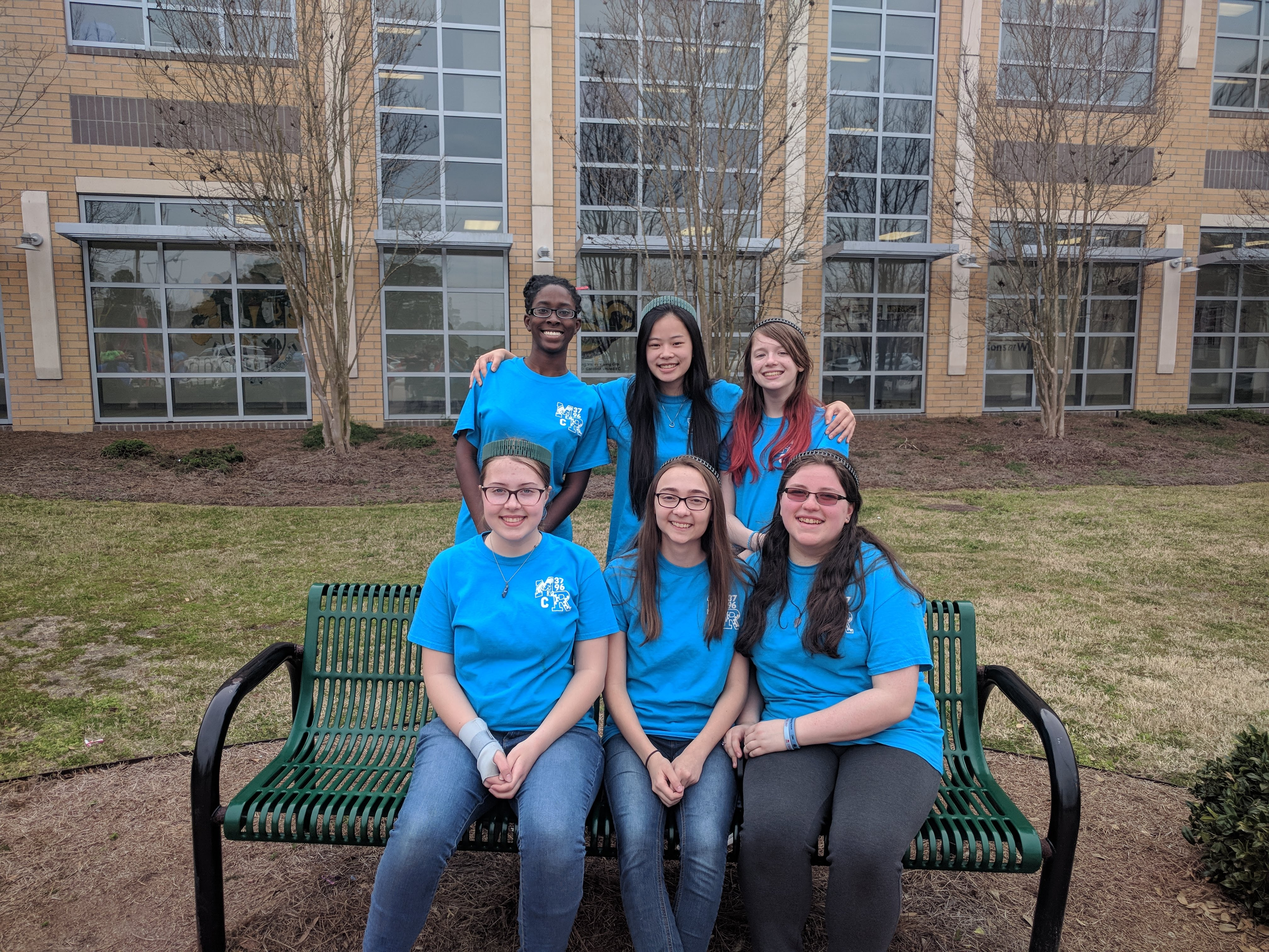
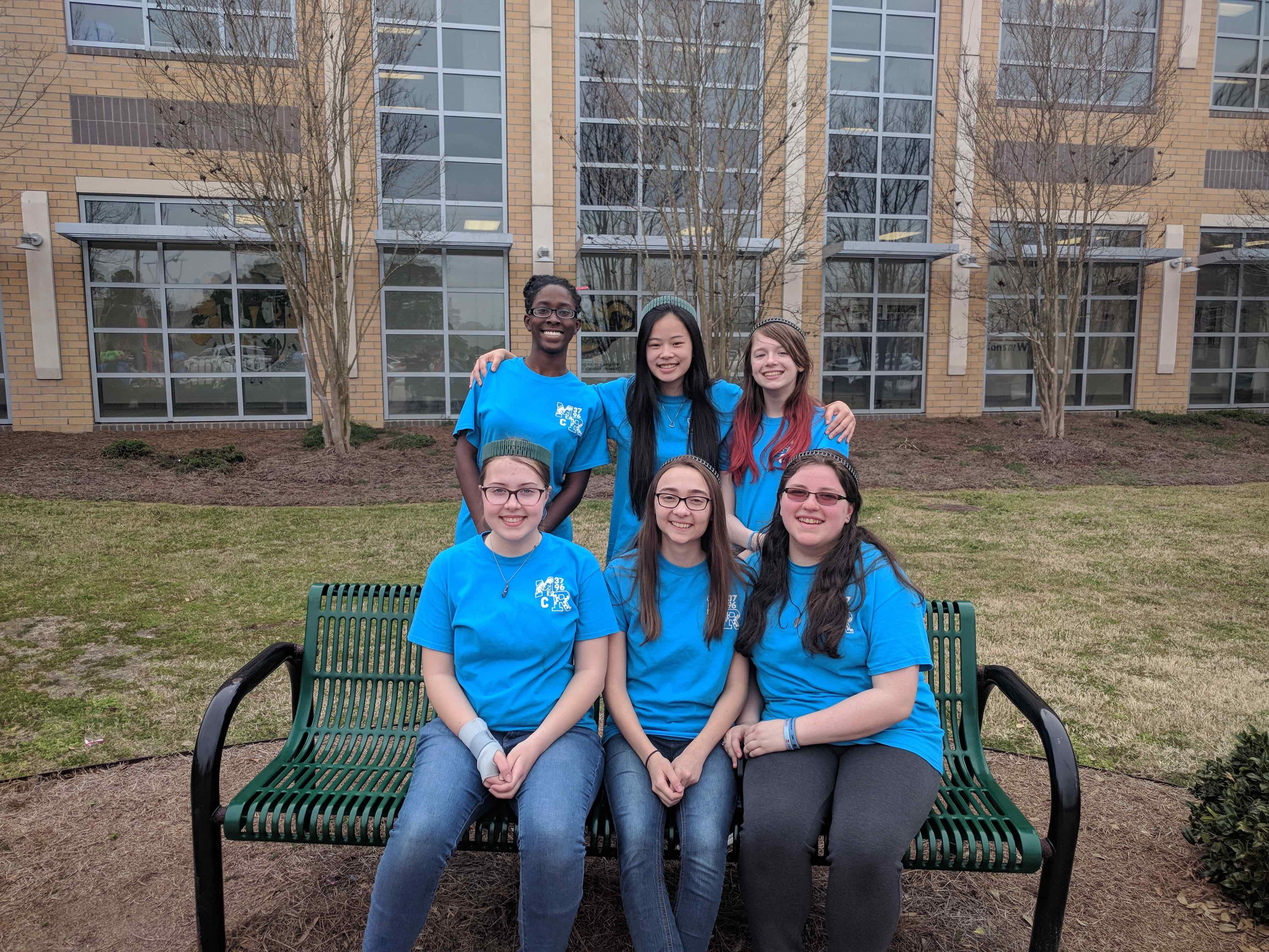
the images were gigantic so I compressed them

diff --git a/main.css b/main.css
@@ -3,7 +3,7 @@ body, html {
 }
 
 .parallaxMe {
-    background-image: url("images/me.png");
+    background-image: url("images/me.jpeg");
 }
 
 .parallaxAbout {
@@ -19,7 +19,7 @@ body, html {
 }
 
 .parallaxCodeQuest {
-    background-image: url("images/CodeQuest_2018.png");
+    background-image: url("images/CodeQuest_2018.jpg");
 }
 
 .parallaxMe,
